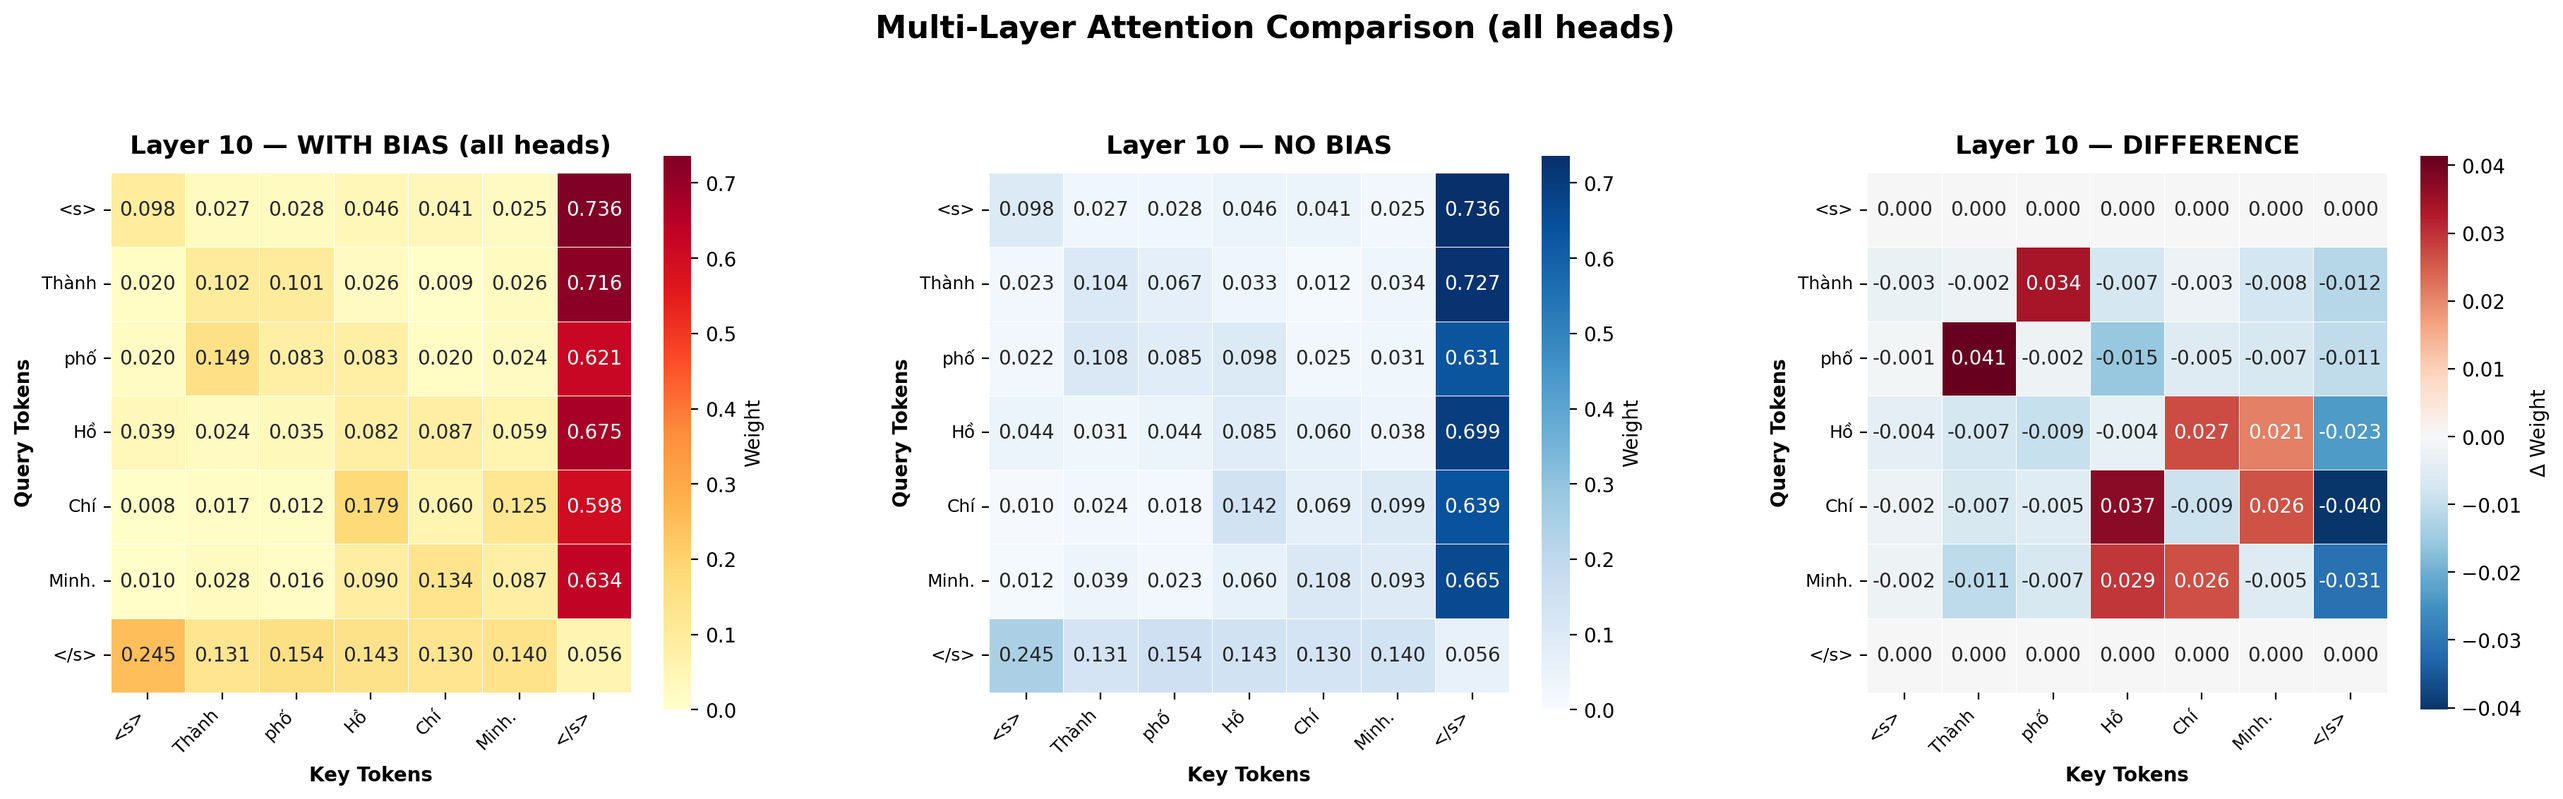
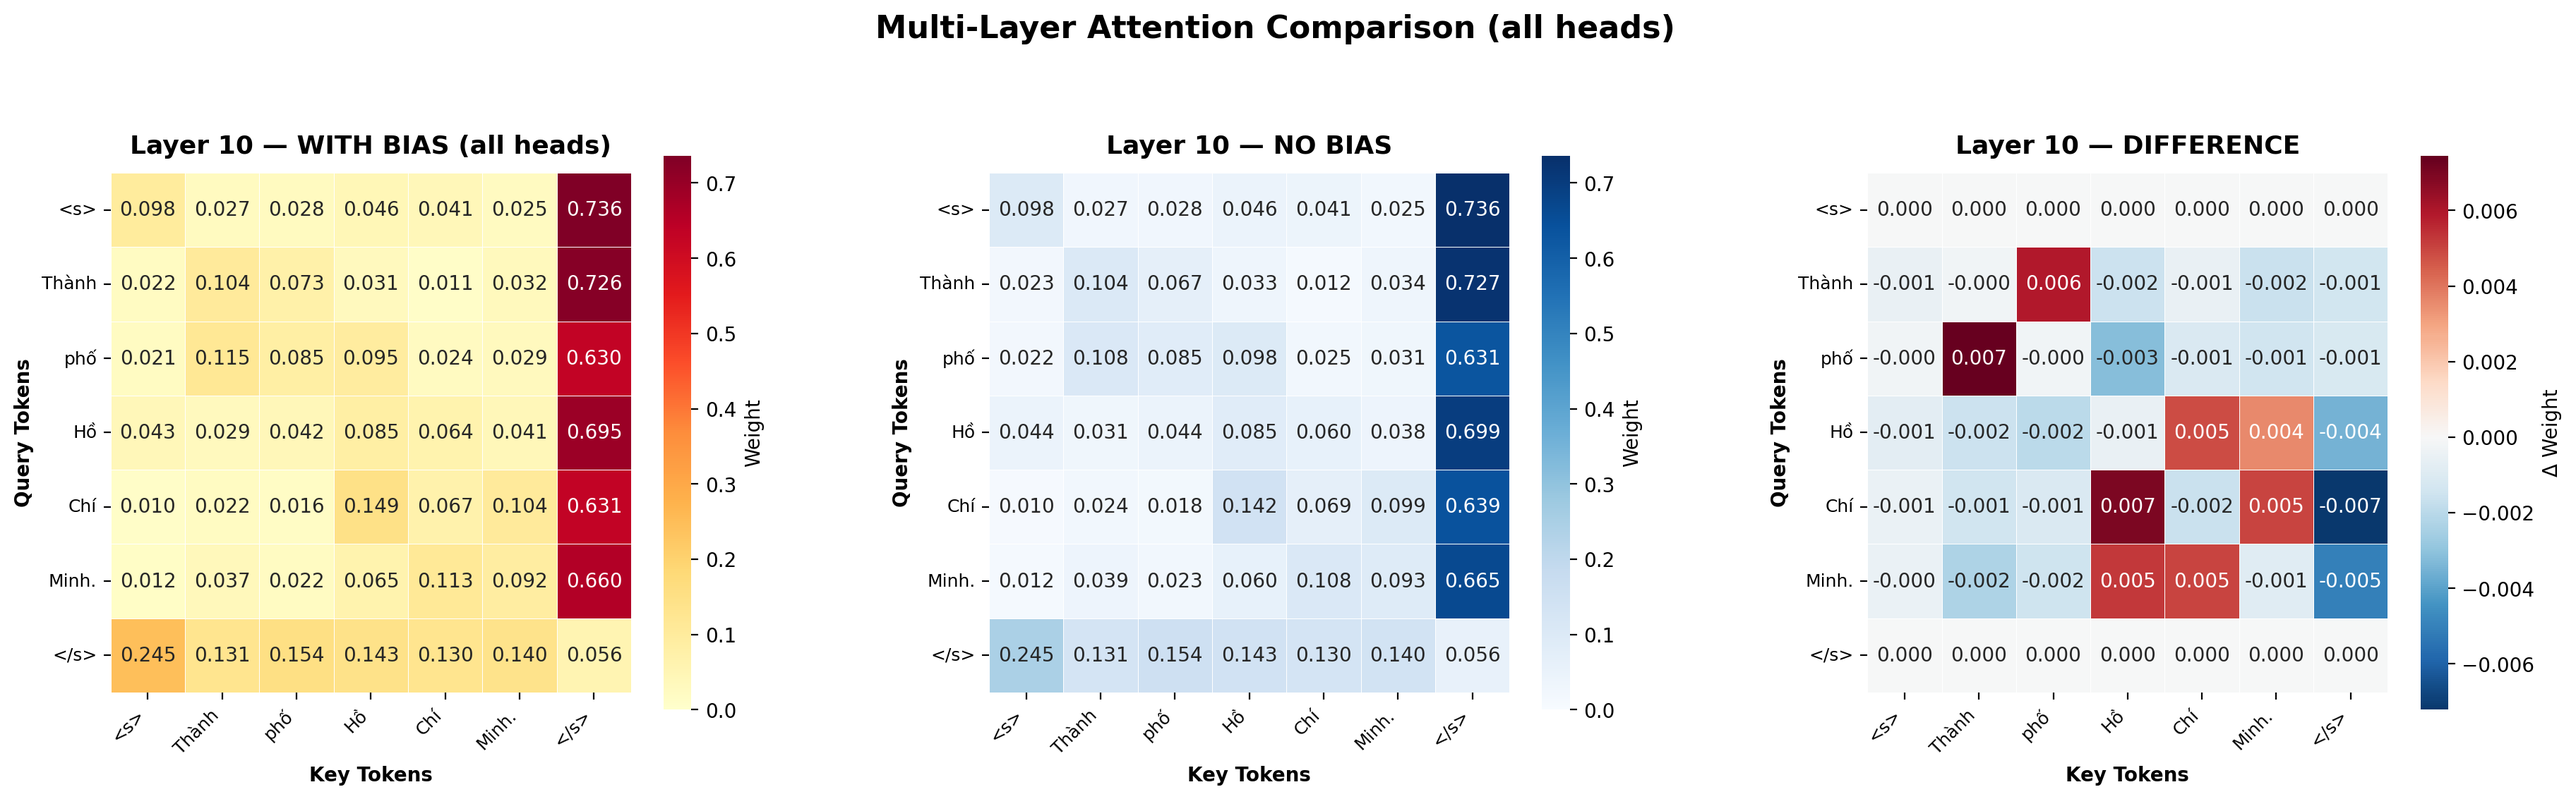
update README

diff --git a/observe_changes.py b/observe_changes.py
@@ -26,7 +26,7 @@ output = tokenizer(text, return_tensors="pt")
 # =============================================================================
 config = RobertaConfig.from_pretrained("vinai/phobert-base")
 
-layers_to_visualize = [10]   # <-- tùy chỉnh danh sách layer ở đây
+layers_to_visualize = [5, 6, 7]   # <-- tùy chỉnh danh sách layer ở đây
 heads = list(range(12))        # dùng all heads
 
 alpha_config = 0.5

diff --git a/README.md b/README.md
@@ -54,3 +54,6 @@ beta_config = -0.25 # <-- weaken attention scores within compounds
 gamma_config = 0.0 # <-- bias single token
 delta_config = 0.0 # <-- bias self token
 ```
+
+## To view the different, go to figs/ - which contains visualization images
+![applied bias to head 5, 6, 7](figs/multi_layer_attention_5-6-7_all.png)
